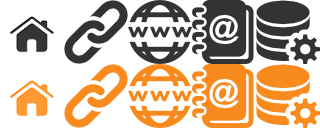
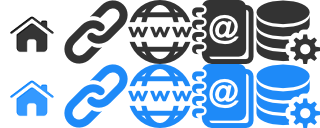
изменили иконки и добавил принт

Changed region(s): [[0.1875, 0.5, 1.0, 1.0], [0.0312, 0.625, 0.1875, 0.9062]]

diff --git a/web/css/smoothness/images.css b/web/css/smoothness/images.css
@@ -41,6 +41,14 @@ a.DTTT_button_del.DTTT_disabled span {
 	background-position: -42px -42px;
 }
 
+a.DTTT_button_print span {
+	background-position: -63px -0px;
+}
+
+a.DTTT_button_print:hover span {
+	background-position: -63px -21px;
+}
+
 
 
 #users {

diff --git a/web/js/users.js b/web/js/users.js
@@ -32,6 +32,7 @@ $(document).ready(function() {
 
 
 		TTOpts.aButtons[1].sButtonClass = 'DTTT_button_new DTTT_disabled';
+		delete TTOpts.aButtons[3];
 
 		var aTable = $('#tab-aliases').dataTable({
 								"bJQueryUI": true,

diff --git a/web/css/style.css b/web/css/style.css
@@ -204,6 +204,7 @@ form#usersform {
 	background-image: url('/css/smoothness/images/mail.png');
 }
 
+a.DTTT_button_print span,
 a.DTTT_button_edit span,
 a.DTTT_button_new span,
 a.DTTT_button_del span {

diff --git a/web/js/init.js b/web/js/init.js
@@ -326,5 +326,9 @@ var TTOpts = {
 
 								}
 						},
+						{
+							"sExtends":"print",
+							"sButtonText": ".",
+						}
 					   ]
 };
